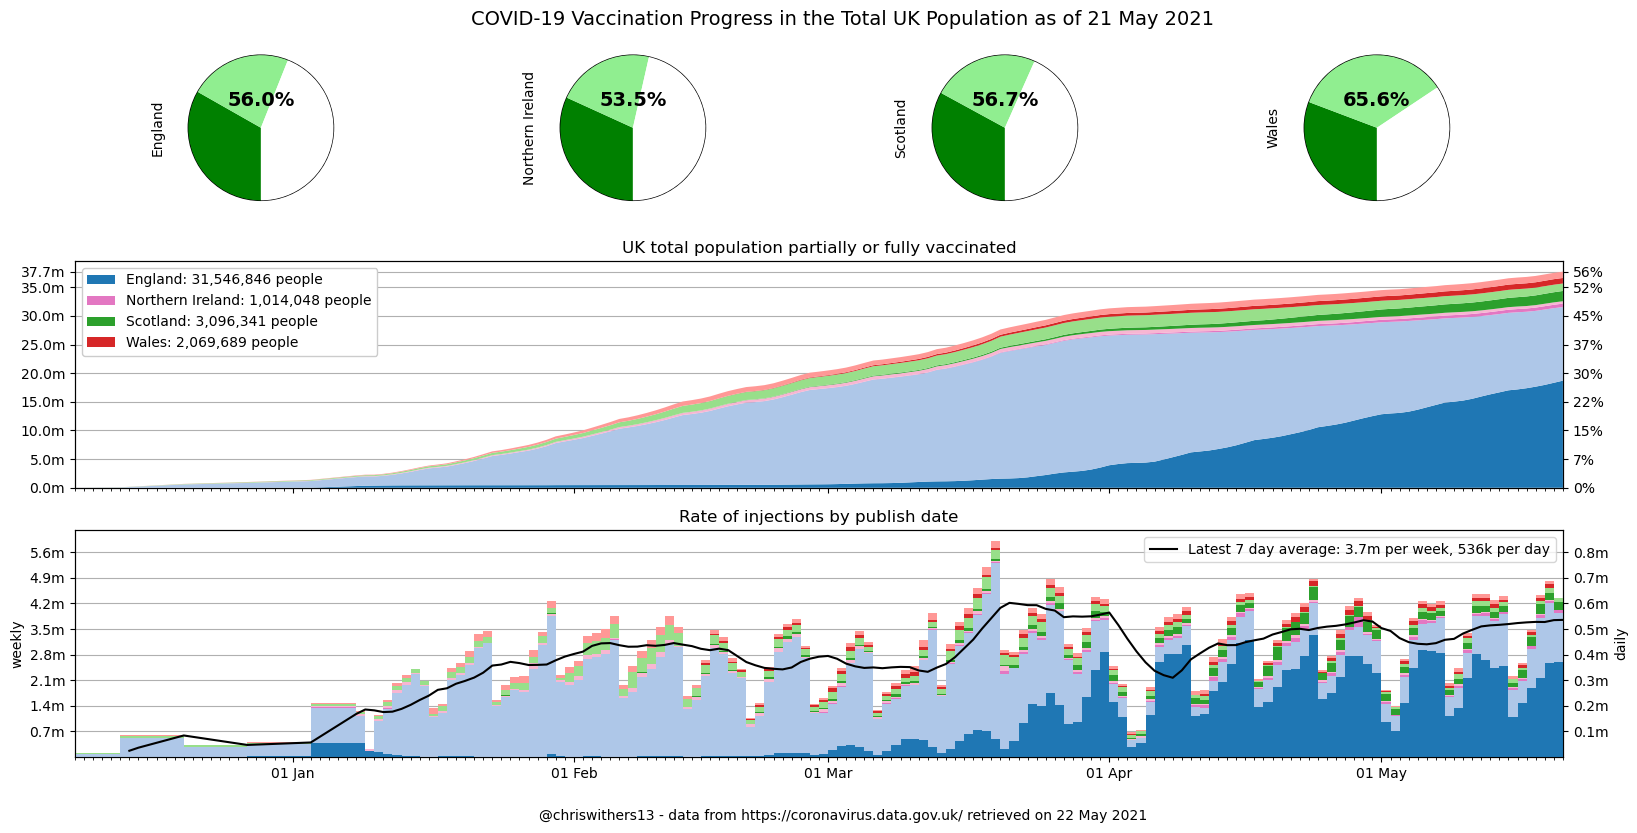
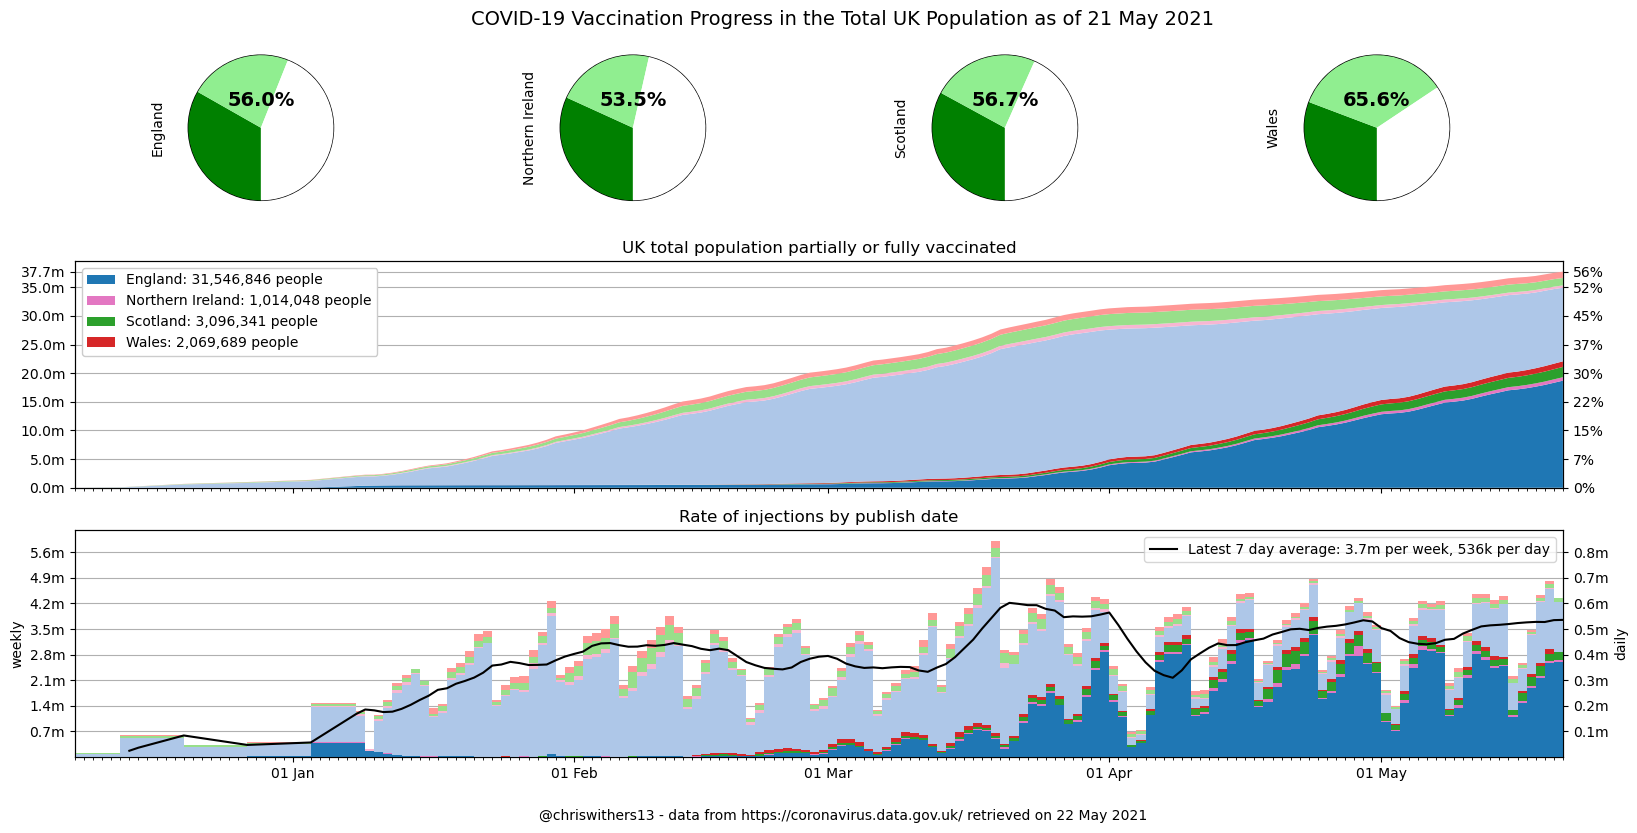
change the stacking order so UK-wide full vaccinated can be seen

diff --git a/vaccination.py b/vaccination.py
@@ -114,7 +114,7 @@ def tab20(i, offset: bool = False):
     return plt.cm.tab20(i * 2 + (1 if offset else 0))
 
 
-def vaccination_dashboard(savefig=True, show_partial=True, dt='*'):
+def vaccination_dashboard(savefig=True, dt='*'):
     # input data:
     raw, data_date = raw_vaccination_data(dt)
     names_frame = raw[[area_code, area_name]].drop_duplicates()
@@ -139,10 +139,11 @@ def vaccination_dashboard(savefig=True, show_partial=True, dt='*'):
     pie_data = pie_data[['full_pct', 'partial_pct', 'none_pct']].transpose()
     totals = data.pivot_table(values=['partial', 'full'], index=[date_col],
                               columns=area_name).fillna(0)
-    totals = totals.swaplevel(axis='columns').sort_index(axis='columns')
+    totals = totals.sort_index(axis='columns')
 
     # plotting
-    colors = list(chain(*((tab20(i), tab20(i, show_partial)) for i in nation_tab10_cm_indices)))
+    indices = nation_tab10_cm_indices
+    colors = [tab20(i) for i in indices]+[tab20(i, offset=True) for i in indices]
 
     fig = plt.figure(figsize=(16, 9), dpi=100)
     fig.set_facecolor('white')
@@ -172,9 +173,10 @@ def vaccination_dashboard(savefig=True, show_partial=True, dt='*'):
     ax.set_title('UK total population partially or fully vaccinated')
 
     labels = []
-    for nation, level in totals.columns:
+    for level, nation in totals.columns:
         if level == 'full':
-            labels.append(f"{nation}: {totals[nation].iloc[-1].sum():,.0f} people")
+            total = totals['full', nation].iloc[-1] + totals['partial', nation].iloc[-1]
+            labels.append(f"{nation}: {total:,.0f} people")
         else:
             labels.append(None)
     ax.stackplot(totals.index, totals.values.transpose(), colors=colors, labels=labels, zorder=10)
@@ -207,7 +209,7 @@ def vaccination_dashboard(savefig=True, show_partial=True, dt='*'):
     ax.set_title('Rate of injections by publish date')
 
     bottom = None
-    for (nation_name, level), color in zip(totals, colors):
+    for (level, nation_name), color in zip(totals, colors):
         nation_data = data[data[area_name] == nation_name].iloc[1:].set_index(date_col)
         if bottom is None:
             bottom = pd.Series(0, nation_data.index)
